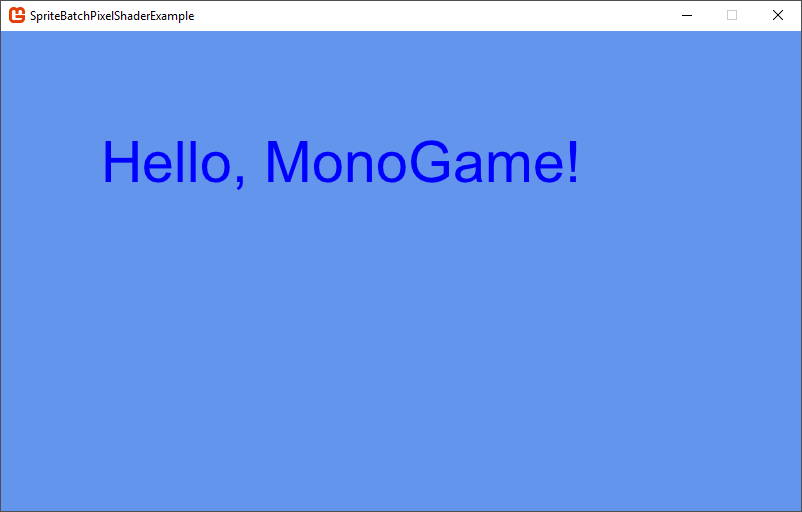
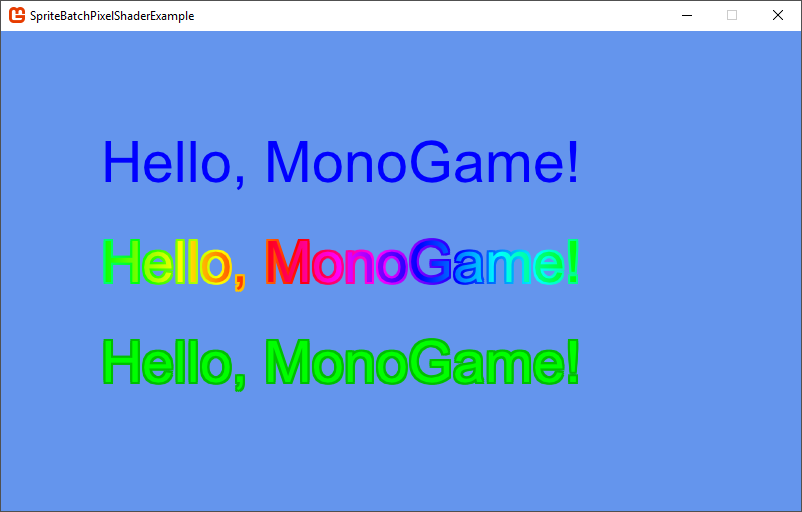
Updated pixel shader example

Changed region(s): [[0.1247, 0.4688, 0.7481, 0.5625], [0.1247, 0.6562, 0.7481, 0.7812]]

diff --git a/Examples/SpriteBatchPixelShaderExample/Game1.cs b/Examples/SpriteBatchPixelShaderExample/Game1.cs
@@ -1,6 +1,7 @@
 using Microsoft.Xna.Framework;
 using Microsoft.Xna.Framework.Graphics;
 using Microsoft.Xna.Framework.Input;
+using System;
 
 namespace SimpleMonogameTruetype.Example
 {
@@ -10,7 +11,7 @@ namespace SimpleMonogameTruetype.Example
 		SpriteBatch spriteBatch;
 		Effect effect;
 
-		Font arial;
+		Font font;
 		Texture2D fontTexture;
 
 		public Game1()
@@ -40,10 +41,11 @@ namespace SimpleMonogameTruetype.Example
 			//Load font
 			//  Font can be loaded from a file path (supports .ttf and .otf formats)
 			//  or if it's an installed font, by specifying its name
-			arial = new Font("Arial");
+			font = new Font("Arial");
+			Console.WriteLine("Loaded "+font.Name);
 
 			//Rasterize the font
-			BitmapData data = arial.GenerateBitmapData("Hello, MonoGame!", 64);
+			BitmapData data = font.GenerateBitmapData("Hello, MonoGame!", 64);
 
 			//Create a texture to hold the rendered string
 			//  SurfaceFormat must be Alpha8
@@ -73,14 +75,98 @@ namespace SimpleMonogameTruetype.Example
 		protected override void Draw(GameTime gameTime)
 		{
 			GraphicsDevice.Clear(Color.CornflowerBlue);
-
+			
 			//Draw the font texture with our pixel shader
 			//  If you need to draw something else as well, you might need another Begin() ... End() -block
 			spriteBatch.Begin(effect: effect);
+
+			//-------------------- SINGLE COLOR TEXT ---------------------
+			//Draw the text
 			spriteBatch.Draw(fontTexture, new Vector2(100, 100), new Color(0, 0, 255, 255));
+
+			//-------------------- RAINBOW COLOR TEXT --------------------
+			//Phase for the outline is half a second ahead of current game time
+			float phase = ((float)gameTime.TotalGameTime.TotalSeconds + 0.5f) / 6 % 1;
+			//When color alpha is 0, the shader uses the color's red value as the phase of the rainbow
+			//  Rainbow is generated on the GPU, see the shader source for implementation
+			DrawOutline(spriteBatch, fontTexture, new Vector2(100, 200), new Color(phase, 0, 0, 0));
+
+			//Set phase back to current game time
+			phase = (float)gameTime.TotalGameTime.TotalSeconds / 6 % 1;
+			//Draw the text
+			spriteBatch.Draw(fontTexture, new Vector2(100, 200), new Color(phase, 0, 0, 0));
+
+			//-------------------- FADING COLOR TEXT ---------------------
+			//Outline is darker (lower HSV v-component)
+			DrawOutline(spriteBatch, fontTexture, new Vector2(100, 300), GetColorFromHSV(phase * 360, 255, 190, 255));
+			//Draw the text
+			spriteBatch.Draw(fontTexture, new Vector2(100, 300), GetColorFromHSV(phase * 360, 255, 255, 255));
+
 			spriteBatch.End();
 
 			base.Draw(gameTime);
+		}
+
+		private void DrawOutline(SpriteBatch spriteBatch, Texture2D texture, Vector2 position, Color color)
+		{
+			const int margin = 2;
+
+			//Create an outline by drawing the texture 8 times
+			spriteBatch.Draw(texture, new Vector2(position.X - margin, position.Y - margin), color);
+			spriteBatch.Draw(texture, new Vector2(position.X + margin, position.Y - margin), color);
+			spriteBatch.Draw(texture, new Vector2(position.X - margin, position.Y + margin), color);
+			spriteBatch.Draw(texture, new Vector2(position.X + margin, position.Y + margin), color);
+			spriteBatch.Draw(texture, new Vector2(position.X - margin, position.Y         ), color);
+			spriteBatch.Draw(texture, new Vector2(position.X + margin, position.Y         ), color);
+			spriteBatch.Draw(texture, new Vector2(position.X         , position.Y - margin), color);
+			spriteBatch.Draw(texture, new Vector2(position.X         , position.Y + margin), color);
+		}
+
+		/// <summary>
+		/// Gets a color from hue component.
+		/// </summary>
+		/// <param name="h">Hue component, between 0 and 1.</param>
+		/// <returns></returns>
+		private Color GetColorFromHue(float h)
+		{
+			float r = Math.Abs(h * 6 - 3) - 1;
+			float g = 2 - Math.Abs(h * 6 - 2);
+			float b = 2 - Math.Abs(h * 6 - 4);
+			return new Color(r, g, b);
+		}
+
+		/// <summary>
+		/// Gets a color from hue, saturation, value and alpha components.
+		/// </summary>
+		/// <param name="h">Hue component, between 0 and 360.</param>
+		/// <param name="s">Saturation component, between 0 and 255.</param>
+		/// <param name="v">Value component, between 0 and 255.</param>
+		/// <param name="a">Alpha component, between 0 and 255.</param>
+		/// <returns></returns>
+		private Color GetColorFromHSV(float h, float s, byte v, byte a)
+		{
+			s /= 255;
+			if (s == 0) //achromatic
+				return new Color(v, v, v, a);
+
+			h /= 60; //divide to sectors 0-5
+
+			int i = (int)h;
+			float f = h - i; //decimal part of h
+
+			byte p = (byte)(v * (1 - s));
+			byte q = (byte)(v * (1 - s * f));
+			byte t = (byte)(v * (1 - s * (1- f)));
+
+			switch (i)
+			{
+				case 0:  return new Color(v, t, p, a); //red     to yellow
+				case 1:  return new Color(q, v, p, a); //yellow  to green
+				case 2:  return new Color(p, v, t, a); //green   to teal
+				case 3:  return new Color(p, q, v, a); //teal    to blue
+				case 4:  return new Color(t, p, v, a); //blue    to magenta
+				default: return new Color(v, p, q, a); //magenta to red
+			}
 		}
 	}
 }

diff --git a/Examples/SpriteBatchInputFieldExample/Game1.cs b/Examples/SpriteBatchInputFieldExample/Game1.cs
@@ -1,6 +1,7 @@
 using Microsoft.Xna.Framework;
 using Microsoft.Xna.Framework.Graphics;
 using Microsoft.Xna.Framework.Input;
+using System;
 
 namespace SimpleMonogameTruetype.Example
 {
@@ -9,7 +10,7 @@ namespace SimpleMonogameTruetype.Example
 		GraphicsDeviceManager graphics;
 		SpriteBatch spriteBatch;
 
-		Font candara;
+		Font font;
 		BitmapData data;
 		string input = "";
 		Texture2D fontTexture;
@@ -57,7 +58,7 @@ namespace SimpleMonogameTruetype.Example
 				return;
 
 			//Rasterize the font at size 48pt
-			data = candara.GenerateBitmapData(input, Font.PointsToPixels(48));
+			data = font.GenerateBitmapData(input, Font.PointsToPixels(48));
 
 			//Create a texture to hold the rendered string
 			//  SurfaceFormat must be Alpha8
@@ -79,7 +80,8 @@ namespace SimpleMonogameTruetype.Example
 			//Load font
 			//  Font can be loaded from a file path (supports .ttf and .otf formats)
 			//  or if it's an installed font, by specifying its name
-			candara = new Font("Candara");
+			font = new Font("Candara");
+			Console.WriteLine("Loaded " + font.Name);
 
 			RenderInstructions();
 			RenderText();
@@ -129,7 +131,7 @@ namespace SimpleMonogameTruetype.Example
 			string instructionString =
 				"Use your keyboard to write something. Press 1 to insert 'Å' character that causes the offset to change.\n"+
 				"The upper display shows proper way of handling offsets, the lower displays what happens when you don't.";
-			BitmapData data = candara.GenerateBitmapData(instructionString, 16);
+			BitmapData data = font.GenerateBitmapData(instructionString, 16);
 
 			instructions = new Texture2D(GraphicsDevice, data.Width, data.Height, false, SurfaceFormat.Alpha8);
 			instructions.SetData(data.Alphas);

diff --git a/Examples/VertexShaderExample/Game1.cs b/Examples/VertexShaderExample/Game1.cs
@@ -21,7 +21,7 @@ namespace SimpleMonogameTruetype.Example
 			"exercise, except to obtain some advantage from it? But who has any right to find fault with a man who chooses " +
 			"to enjoy a pleasure that has no annoying consequences, or one who avoids a pain that produces no resultant pleasure?";
 
-		Font arial;
+		Font font;
 		BitmapData data;
 		Texture2D fontTexture;
 
@@ -64,7 +64,7 @@ namespace SimpleMonogameTruetype.Example
 		private void RenderText(int width)
 		{
 			//Rasterize the font at size 12pt
-			data = arial.GenerateBitmapData(englishLoremIpsum, Font.PointsToPixels(12), width - 10);
+			data = font.GenerateBitmapData(englishLoremIpsum, Font.PointsToPixels(12), width - 10);
 
 			//Dispose the old texture
 			if (fontTexture != null)
@@ -115,7 +115,8 @@ namespace SimpleMonogameTruetype.Example
 			//Load font
 			//  Font can be loaded from a file path (supports .ttf and .otf formats)
 			//  or if it's an installed font, by specifying its name
-			arial = new Font("Arial");
+			font = new Font("Arial");
+			Console.WriteLine("Loaded " + font.Name);
 			RenderText(Window.ClientBounds.Width);
 		}
 

diff --git a/Examples/SpriteBatchResizeTextFieldExample/Game1.cs b/Examples/SpriteBatchResizeTextFieldExample/Game1.cs
@@ -22,7 +22,7 @@ namespace SimpleMonogameTruetype.Example
 			"exercise, except to obtain some advantage from it? But who has any right to find fault with a man who chooses " +
 			"to enjoy a pleasure that has no annoying consequences, or one who avoids a pain that produces no resultant pleasure?";
 
-		Font arial;
+		Font font;
 		BitmapData data;
 		Texture2D fontTexture;
 
@@ -63,7 +63,7 @@ namespace SimpleMonogameTruetype.Example
 		private void RenderText(int width)
 		{
 			//Rasterize the font at size 12pt
-			data = arial.GenerateBitmapData(englishLoremIpsum, Font.PointsToPixels(12), width - 10);
+			data = font.GenerateBitmapData(englishLoremIpsum, Font.PointsToPixels(12), width - 10);
 
 			//Dispose the old texture
 			if (fontTexture != null)
@@ -93,7 +93,8 @@ namespace SimpleMonogameTruetype.Example
 			//Load font
 			//  Font can be loaded from a file path (supports .ttf and .otf formats)
 			//  or if it's an installed font, by specifying its name
-			arial = new Font("Arial");
+			font = new Font("Arial");
+			Console.WriteLine("Loaded " + font.Name);
 			RenderText(Window.ClientBounds.Width);
 		}
 

diff --git a/Examples/SpriteBatchExample/Game1.cs b/Examples/SpriteBatchExample/Game1.cs
@@ -1,6 +1,7 @@
 using Microsoft.Xna.Framework;
 using Microsoft.Xna.Framework.Graphics;
 using Microsoft.Xna.Framework.Input;
+using System;
 
 namespace SimpleMonogameTruetype.Example
 {
@@ -9,7 +10,7 @@ namespace SimpleMonogameTruetype.Example
 		GraphicsDeviceManager graphics;
 		SpriteBatch spriteBatch;
 
-		Font arial;
+		Font font;
 		Texture2D fontTexture;
 
 		public Game1()
@@ -32,10 +33,11 @@ namespace SimpleMonogameTruetype.Example
 			//Load font
 			//  Font can be loaded from a file path (supports .ttf and .otf formats)
 			//  or if it's an installed font, by specifying its name
-			arial = new Font("Arial");
+			font = new Font("Arial");
+			Console.WriteLine("Loaded "+font.Name);
 
 			//Rasterize the font
-			BitmapData data = arial.GenerateBitmapData("Hello, MonoGame!", 64);
+			BitmapData data = font.GenerateBitmapData("Hello, MonoGame!", 64);
 
 			//Create a texture to hold the rendered string
 			//  SurfaceFormat must be Alpha8

diff --git a/simple-font-lib/lib.c b/simple-font-lib/lib.c
@@ -42,12 +42,12 @@ wchar_t* lastFontName = NULL;
 wchar_t* GetFontName(stbtt_fontinfo* info)
 {
 	int length;
-	unsigned char* fontNameStr = stbtt_GetFontNameString(info, &length, STBTT_PLATFORM_ID_MICROSOFT, STBTT_MS_EID_UNICODE_BMP, STBTT_MS_LANG_ENGLISH, 4);
+	unsigned char* fontNameStr = (unsigned char*)stbtt_GetFontNameString(info, &length, STBTT_PLATFORM_ID_MICROSOFT, STBTT_MS_EID_UNICODE_BMP, STBTT_MS_LANG_ENGLISH, 4);
 
 	//Swap endianness
-	for (int i = 0; i < length / sizeof(wchar_t); i++)
+	for (size_t i = 0; i < length / sizeof(wchar_t); i++)
 	{
-		unsigned char* temp = fontNameStr[i * 2];
+		unsigned char temp = fontNameStr[i * 2];
 		fontNameStr[i * 2] = fontNameStr[i * 2 + 1];
 		fontNameStr[i * 2 + 1] = temp;
 	}

diff --git a/simple-font-lib/installedfonts.h b/simple-font-lib/installedfonts.h
@@ -149,7 +149,7 @@ __declspec(dllexport) void PrintInstalledFonts()
 	//Load installed fonts only once
 	if (instFonts == NULL)
 		if (LoadInstalledFonts() != ERROR_SUCCESS)
-			return NULL;
+			return;
 
 	for (size_t i = 0; i < numInstFonts; i++)
 		wprintf(L"%s (%s)\n", instFonts[i].name, instFonts[i].filename);
